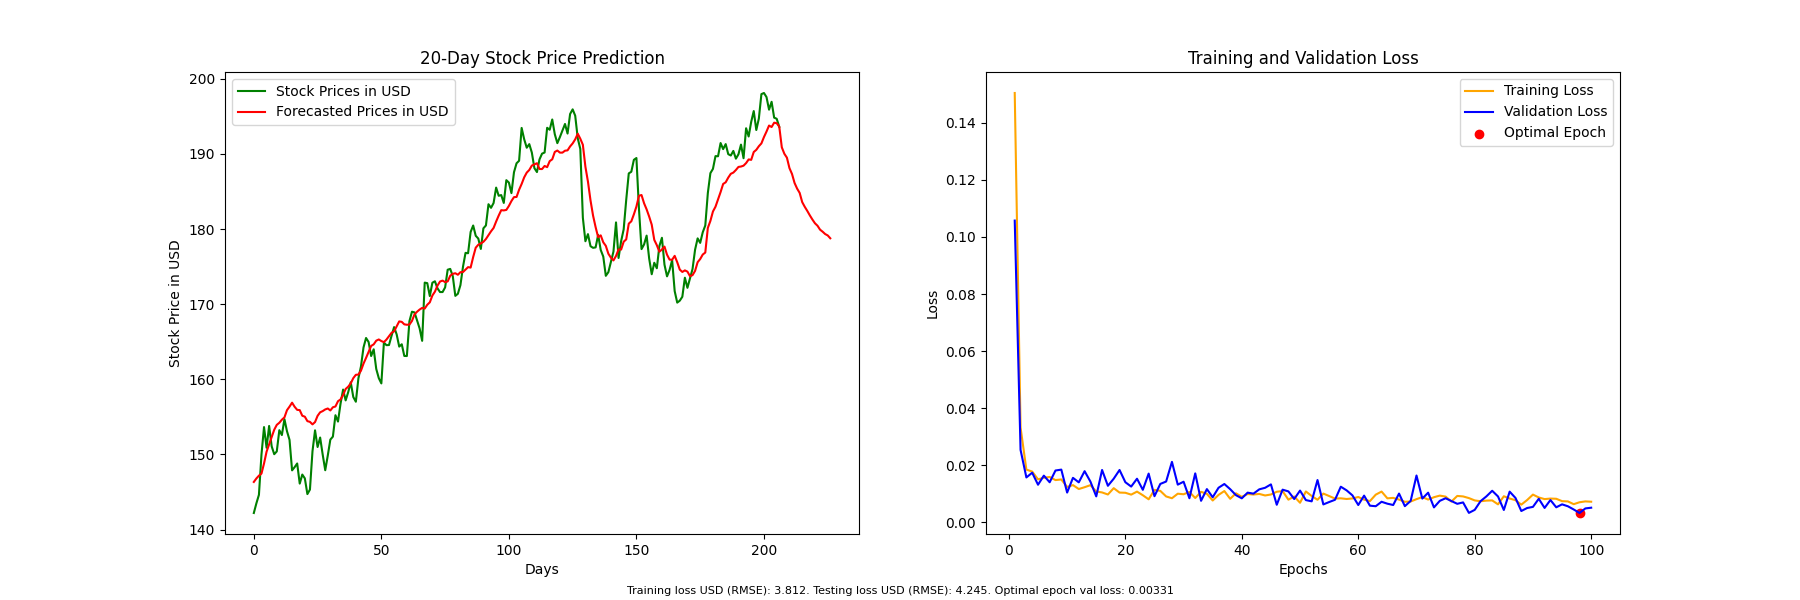
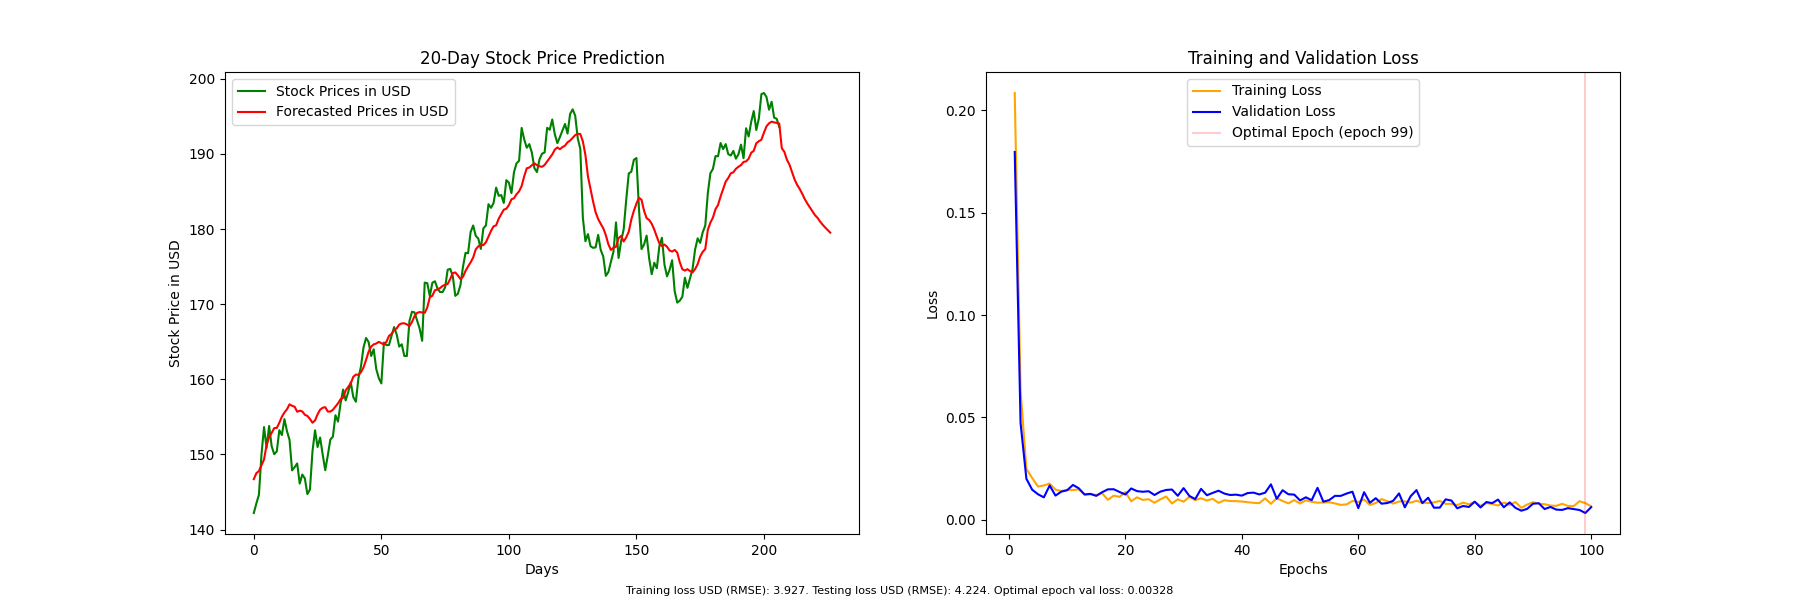
Updated pictures and code
Removed red dot for optimal epoch; added line for additional clarity

diff --git a/stockforecaster.py b/stockforecaster.py
@@ -15,7 +15,7 @@
 import pandas as pd
 import numpy as np
 
-RAW = pd.read_csv( 'stockdata/AAPL_Stock_Data.csv' )
+RAW = pd.read_csv( 'stockdata/NVDA_Stock_Data.csv' )
 RAW = ( RAW[ [ 'date', 'close' ] ] ).drop( 'date', axis = 1 )
 RAW = RAW.reset_index( drop = True )
 
@@ -176,8 +176,8 @@ stock_plt.legend( )
 
 loss_plt.plot( EPOCHS_RANGE, train_loss, label = 'Training Loss', color = 'orange' )
 loss_plt.plot( EPOCHS_RANGE, val_loss, label = 'Validation Loss', color = 'blue' )
-loss_plt.scatter( *min_val_loss, 
-                  label = 'Optimal Epoch', marker = 'o', color = 'red' )
+loss_plt.axvline( x = min_val_loss[ 0 ], color = 'red', alpha = 0.2,
+                  label = 'Optimal Epoch (epoch ' + str( optimal_epoch_index ) + ')' )
 loss_plt.set_title( 'Training and Validation Loss' )
 loss_plt.set_xlabel( 'Epochs' )
 loss_plt.set_ylabel( 'Loss' )
